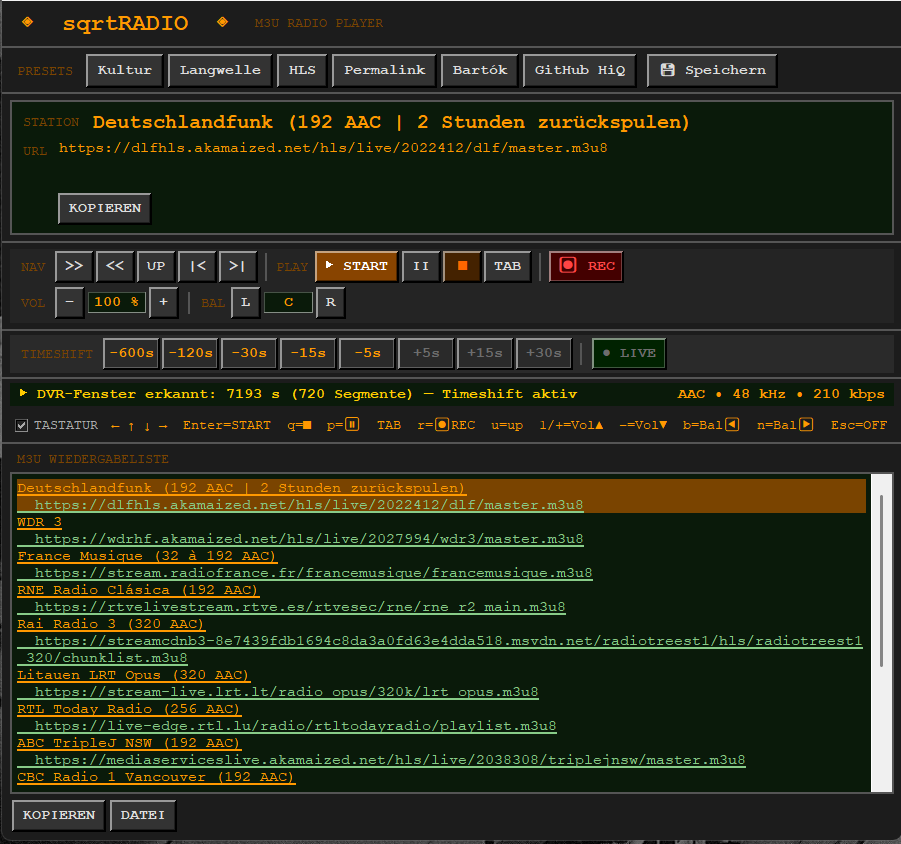
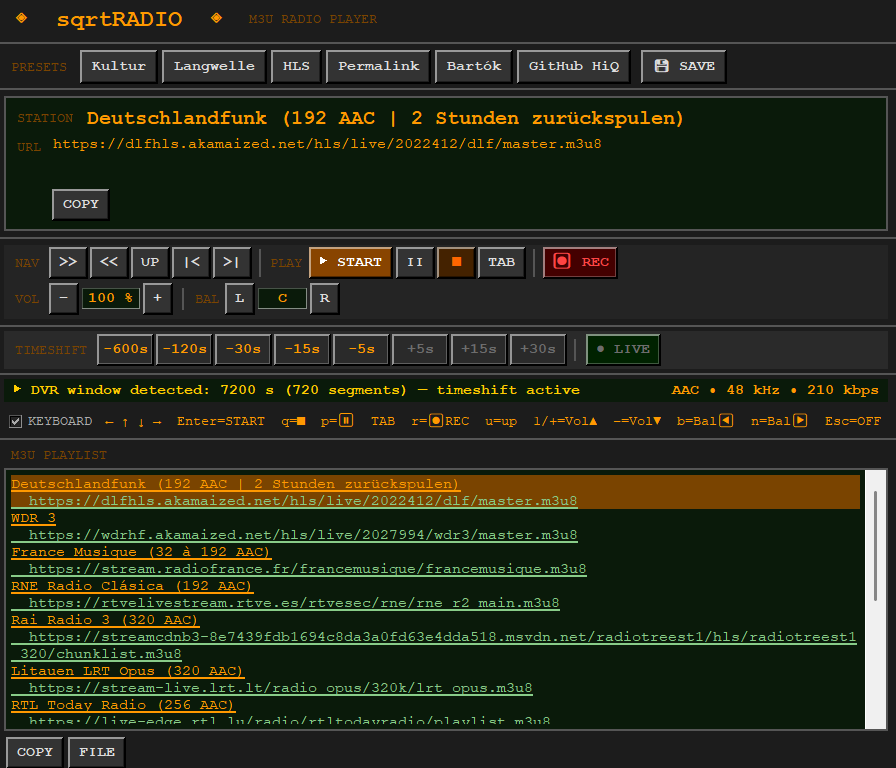
Add files via upload

diff --git a/sqrtRADIO.py b/sqrtRADIO.py
@@ -51,7 +51,7 @@ ICECAST_MAX_CHUNKS = int(ICECAST_BUFFER_SECS * BLOCKS_PER_SEC)
 # -- Preset playlists ------------------------- -------------------------------
 # These are the factory defaults, used to seed the presets file on first run.
 # After that, PRESETS_FILE is the single source of truth and every button
-# (including these) can be overwritten via the "Speichern" button.
+# (including these) can be overwritten via the "Save" button.
 DEFAULT_PRESETS = [
     ("Kultur", "https://www.sqrt.ch/Radio/kultur.m3u"),
     ("Langwelle", "https://www.sqrt.ch/Radio/langwelle.m3u"),
@@ -671,7 +671,7 @@ class App:
 
         self._btn_save_preset = _retro_btn(
             preset_outer,
-            text="💾 Speichern",
+            text="💾 SAVE",
             command=self._save_preset,
             padx=5,
             pady=2,
@@ -703,7 +703,7 @@ class App:
             fg=R["display_dim"],
         ).pack(side="left")
 
-        self._v_name = tk.StringVar(value="– KEIN SENDER –")
+        self._v_name = tk.StringVar(value="– NO STATION –")
         tk.Label(
             name_row,
             textvariable=self._v_name,
@@ -743,7 +743,7 @@ class App:
         self._url_box.pack(fill="x")
 
         copy_url_btn = _retro_btn(
-            url_sub, text="KOPIEREN", command=self._copy_url, padx=4, pady=1
+            url_sub, text="COPY", command=self._copy_url, padx=4, pady=1
         )
         copy_url_btn.pack(anchor="w", pady=2)
 
@@ -946,7 +946,7 @@ class App:
         stat_outer = _retro_frame(self.root, bg=R["display_bg"])
         stat_outer.pack(fill="x", padx=8, pady=4)
 
-        self._v_status = tk.StringVar(value="BEREIT.")
+        self._v_status = tk.StringVar(value="READY.")
         tk.Label(
             stat_outer,
             textvariable=self._v_status,
@@ -973,7 +973,7 @@ class App:
         self._v_kb = tk.BooleanVar(value=True)
         tk.Checkbutton(
             kb_frm,
-            text="TASTATUR",
+            text="KEYBOARD",
             variable=self._v_kb,
             command=self._kb_toggle,
             bg=R["bg"],
@@ -1006,7 +1006,7 @@ class App:
 
         tk.Label(
             m3u_outer,
-            text="M3U WIEDERGABELISTE",
+            text="M3U PLAYLIST",
             font=R["font_small"],
             bg=R["bg"],
             fg=R["display_dim"],
@@ -1032,17 +1032,17 @@ class App:
         btn_row = _retro_frame(m3u_outer, bg=R["bg"])
         btn_row.pack(anchor="w", pady=4)
 
-        _retro_btn(btn_row, text="KOPIEREN", command=self._copy_m3u, padx=4).pack(
+        _retro_btn(btn_row, text="COPY", command=self._copy_m3u, padx=4).pack(
             side="left", padx=2
         )
-        _retro_btn(btn_row, text="DATEI", command=self._save_m3u, padx=4).pack(
+        _retro_btn(btn_row, text="FILE", command=self._save_m3u, padx=4).pack(
             side="left", padx=2
         )
 
     # -- M3U fetch & parse ----------------------------------------------------
 
     def _get_m3u(self, url: str):
-        self._status(f"Lade: {url}")
+        self._status(f"Loading: {url}")
 
         def fetch():
             try:
@@ -1050,7 +1050,7 @@ class App:
                 r.raise_for_status()
                 self.root.after(0, lambda: self._parse_m3u(r.text, url))
             except Exception as exc:
-                self.root.after(0, lambda: self._status(f"Fehler: {exc}"))
+                self.root.after(0, lambda: self._status(f"Error: {exc}"))
 
         threading.Thread(target=fetch, daemon=True).start()
 
@@ -1074,7 +1074,7 @@ class App:
         self.history.append(url)
         self._write_text(preserve_scroll=False)  # fresh playlist → start at top
         self._status(
-            f"Geladen · {len(self.m3u_arr) - (0 if self.simple else 1)} Einträge · {url}"
+            f"Loaded · {len(self.m3u_arr) - (0 if self.simple else 1)} entries · {url}"
         )
 
     def _write_text(self, preserve_scroll: bool = True):
@@ -1145,7 +1145,7 @@ class App:
                 self._rec_proc.wait(timeout=5)
             self._rec_proc = None
             self._btn_rec.config(text="⏺ REC", fg="#ff4444")
-        self._status("■ Gestoppt.")
+        self._status("■ Stopped.")
         self._set_seek_enabled(False)
 
     # -- Playback -------------------------------------------------------------
@@ -1357,14 +1357,14 @@ class App:
                 if is_dvr:
                     n = len(segs)
                     self._status(
-                        f"▶ DVR-Fenster erkannt: {dur:.0f} s "
-                        f"({n} Segmente) — Timeshift aktiv"
+                        f"▶ DVR window detected: {dur:.0f} s "
+                        f"({n} segments) — timeshift active"
                     )
                 else:
                     self._pcm_buffer = PCMBuffer(ICECAST_MAX_CHUNKS)
                     self.player.attach_buffer(self._pcm_buffer)
                     self._set_seek_enabled(True)
-                    self._status("▶ Kein DVR — Timeshift via Client-Puffer aktiv")
+                    self._status("▶ No DVR — timeshift via client buffer active")
 
             self.root.after(0, _update)
 
@@ -1441,7 +1441,7 @@ class App:
             )
             return
 
-        self._status(f"⏳ Suche {new_offset} s hinter Live-Kante …")
+        self._status(f"⏳ Seeking {new_offset} s behind live edge …")
         self._set_seek_enabled(False)  # prevent repeated clicks while probing
 
         # Use cached segment list if available, else probe
@@ -1464,7 +1464,7 @@ class App:
                     self._dvr_window = 0.0
                     self._dvr_segments = []
                     self._set_seek_enabled(False)
-                    self._status("⚠ Kein DVR erkannt — Timeshift nicht möglich.")
+                    self._status("⚠ No DVR detected — timeshift not possible.")
                     return
 
                 # Clamp offset to what's actually in the manifest
@@ -1494,8 +1494,8 @@ class App:
                 self._dvr_segments = segs
                 self._set_seek_enabled(True)
                 self._status(
-                    f"◀ {behind:.0f} s hinter Live  "
-                    f"(Segment -{seg_idx}, DVR: {dvr_dur:.0f} s)"
+                    f"◀ {behind:.0f} s behind live  "
+                    f"(segment -{seg_idx}, DVR: {dvr_dur:.0f} s)"
                 )
                 # Use the pre-resolved best-variant URL so ffmpeg doesn't fall
                 # back to the lowest bitrate when replaying the master playlist.
@@ -1540,8 +1540,8 @@ class App:
             self._status("▶ Live")
         else:
             self._status(
-                f"◀ {new_offset} s hinter Live  "
-                f"(Puffer: {int(avail_secs)} s / {ICECAST_BUFFER_SECS} s max)"
+                f"◀ {new_offset} s behind live  "
+                f"(buffer: {int(avail_secs)} s / {ICECAST_BUFFER_SECS} s max)"
             )
         self._set_seek_enabled(True)
 
@@ -1567,12 +1567,12 @@ class App:
             self._set_vol(0.0)
             self._paused = True
             self._btn_pause.config(text="▶")
-            self._status("⏸ Pausiert (Stummschaltung).")
+            self._status("⏸ Paused (muted).")
         else:
             self._set_vol(self._pre_pause_vol)
             self._paused = False
             self._btn_pause.config(text="II")
-            self._status("▶ Wiedergabe fortgesetzt.")
+            self._status("▶ Playback resumed.")
 
     # -- Recording ------------------------------------------------------------
 
@@ -1586,17 +1586,17 @@ class App:
                 self._rec_proc.wait(timeout=5)
             self._rec_proc = None
             self._btn_rec.config(text="⏺ REC", fg="#ff4444")
-            self._status("Aufnahme gestoppt.")
+            self._status("Recording stopped.")
         else:
             # Start recording
             url = self._current_url
             if not url:
-                self._status("Kein Stream aktiv – erst START drücken.")
+                self._status("No stream active – press START first.")
                 return
 
             # .mkv is the most robust universal container for copying raw codecs (MP3, AAC, Ogg, etc.)
             path = filedialog.asksaveasfilename(
-                title="Wähle das richtige Audioformat!",
+                title="Choose the right audio format!",
                 filetypes=[
                     ("Universal Audio (MKV)", "*.mkv"),
                     ("MP3 Stream", "*.mp3"),
@@ -1606,7 +1606,7 @@ class App:
                     ("OPUS Audio", "*.opus"),
                     ("FLAC Audio", "*.flac"),
                     ("OGG Audio", "*.ogg"),
-                    ("Alle Dateien", "*"),
+                    ("All Files", "*"),
                 ],
                 defaultextension=".mkv",
                 initialfile="sqrtRADIO.mkv",
@@ -1668,9 +1668,9 @@ class App:
                     creationflags=CREATE_NO_WINDOW,
                 )
                 self._btn_rec.config(text="⏹ STOP", fg="#ffffff")
-                self._status(f"⏺ Aufnahme läuft → {path}")
+                self._status(f"⏺ Recording in progress → {path}")
             except Exception as exc:
-                self._status(f"Aufnahme-Fehler: {exc}")
+                self._status(f"Recording error: {exc}")
 
     # -- Volume ---------------------------------------------------------------
 
@@ -1725,7 +1725,7 @@ class App:
         if path:
             with open(path, "w", encoding="utf-8") as fh:
                 fh.write(content)
-            self._status(f"Gespeichert: {path}")
+            self._status(f"Saved: {path}")
 
     # -- Presets (single JSON-backed source, factory + user-saved) ------------
 
@@ -1752,7 +1752,7 @@ class App:
             with open(PRESETS_FILE, "w", encoding="utf-8") as fh:
                 json.dump(data, fh, ensure_ascii=False, indent=2)
         except Exception as exc:
-            self._status(f"Fehler beim Speichern der Presets: {exc}")
+            self._status(f"Error saving presets: {exc}")
 
     def _load_preset_url(self, label: str, url: str):
         """Preset button click: dispatch by URL type (mirrors tune()).
@@ -1804,11 +1804,11 @@ class App:
         """
         url = self._get_url()
         if not url:
-            self._status("Kein Inhalt im URL-Feld zum Speichern.")
+            self._status("No content in the URL field to save.")
             return
 
         label = simpledialog.askstring(
-            "Preset speichern", "Name für diesen Button:", parent=self.root
+            "Save preset", "Name for this button:", parent=self.root
         )
         if not label:
             return
@@ -1822,7 +1822,7 @@ class App:
 
         self._persist_presets()
         self._render_presets()
-        self._status(f"Preset gespeichert: {label}")
+        self._status(f"Preset saved: {label}")
 
     # -- Keyboard -------------------------------------------------------------
 